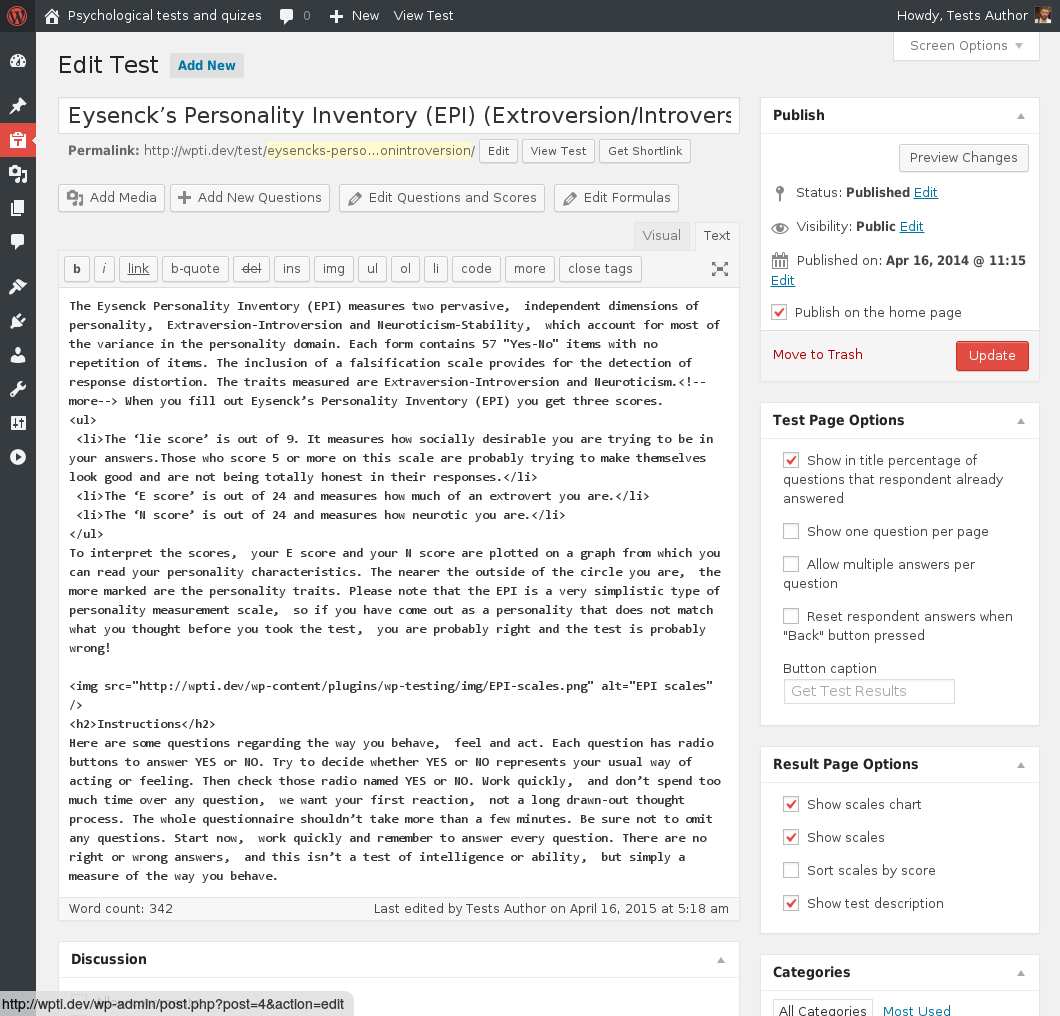
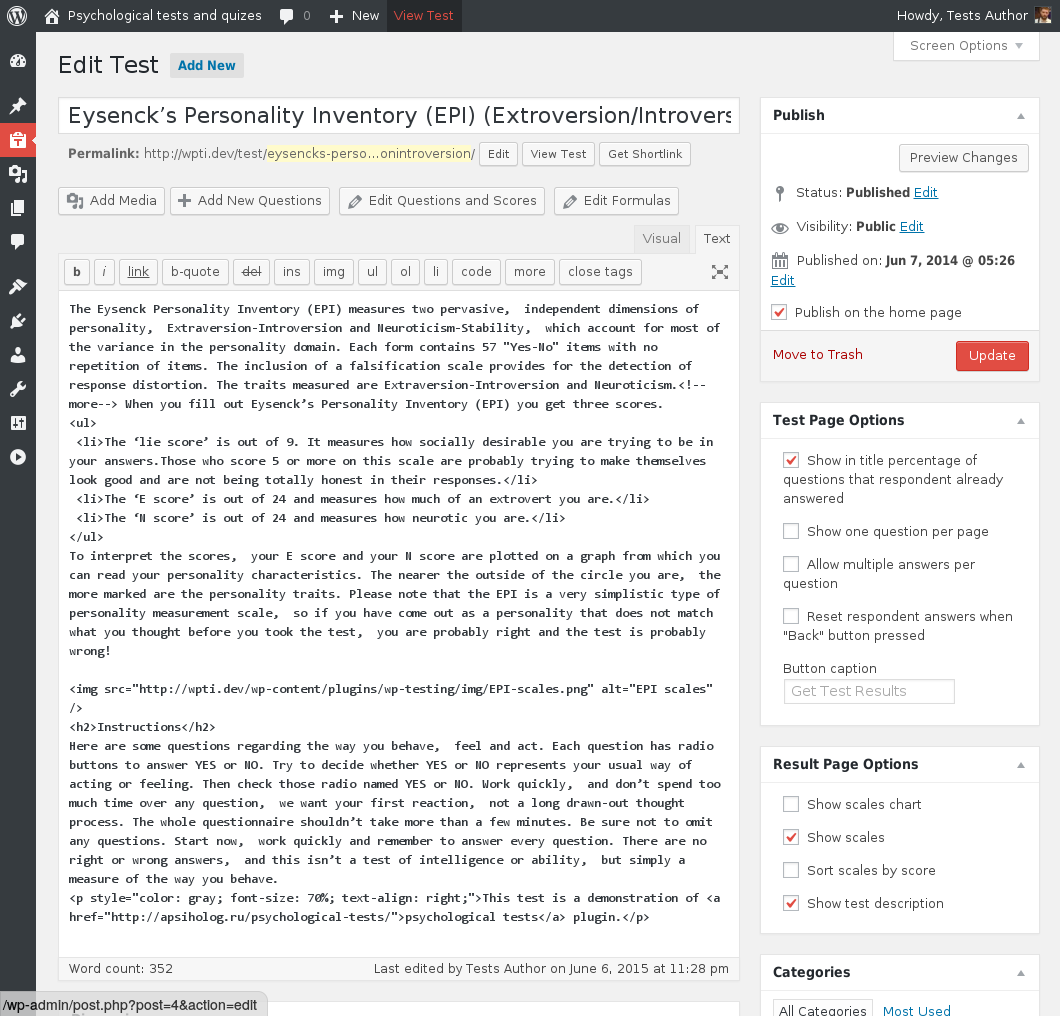
Update screenshots
* Update respondents' results screen
* Add user's tests results screen
* Improve bottom URL status element style

diff --git a/tools/screenshots/create-screenshots.js b/tools/screenshots/create-screenshots.js
@@ -1,13 +1,19 @@
 var casper = require('casper').create()
 casper.options.viewportSize = {width: 1060, height: 1016}
 
-casper.start('http://wpti.dev/').thenOpen('http://wpti.dev/wp-login.php', {
-    method: 'post',
-    data  : {
-        log: 'wpti',
-        pwd: 'wpti'
-    }
-})
+casper.start('http://wpti.dev/')
+
+function loginAs(who) {
+    casper.thenOpen('http://wpti.dev/wp-login.php', {
+        method: 'post',
+        data  : {
+            log: who,
+            pwd: who
+        }
+    })
+};
+
+loginAs('wpti')
 
 var screenshots = [
    {
@@ -62,6 +68,7 @@ var screenshots = [
                this.evaluate(function() {
                    switchEditors.switchto(jQuery('#content-html')[0])
                })
+               this.mouse.move('#wp-admin-bar-view')
                this.wait(400)
            })
        }
@@ -118,7 +125,7 @@ var screenshots = [
             })
         }
     }, {
-        title   : 'The example of the test without  scores. Some answers are individual and some are individualized',
+        title   : 'The example of the test without scores. Some answers are individual and some are individualized',
         offset  : 600,
         actions : function () {
             casper.thenOpen('http://wpti.dev/wp-admin/edit.php?post_type=wpt_test', function() {
@@ -132,11 +139,48 @@ var screenshots = [
             })
         }
     }, {
-        title   : 'Respondents’ test results in admin area. Test link will open test in edit more and view link allow to see test result',
+        title   : 'Respondents’ test results in admin area. Test link will open test in edit mode and view link allow to see test result',
         actions : function () {
-            casper.thenOpen('http://wpti.dev/wp-admin/edit.php?post_type=wpt_test&page=wpt_test_respondents_results&paged=2')
+            casper.thenOpen('http://wpti.dev/wp-admin/edit.php?post_type=wpt_test&page=wpt_test_respondents_results&filter_condition[passing_created]=201506&orderby=test_id&order=asc', function() {
+                this.click('#show-settings-link')
+                this.evaluate(function() {
+                    jQuery('#passing_device_uuid-hide').attr('checked', true).click()
+                    jQuery('#passing_ip-hide').attr('checked', true).click()
+                    jQuery('#passing_user_agent-hide').attr('checked', true).click()
+                })
+                this.wait(400)
+                this.mouse.move('label[for=cb-select-1]')
+                this.evaluate(function() {
+                    jQuery('#cb-select-1').click()
+                })
+            })
+
         }
     }, {
+        title   : 'User see own tests results in admin area',
+        actions : function () {
+            loginAs('user')
+
+            casper.thenOpen('http://wpti.dev/wp-admin/profile.php', function() {
+               this.clickLabel('Light', 'label')
+               this.fill('form#your-profile', {
+                   nickname     : 'Tests Respondent',
+                   display_name : 'Tests Respondent',
+                   email        : 'alla@angloved.ru'
+               }, true)
+            }).waitForUrl(/updated/)
+
+            casper.thenOpen('http://wpti.dev/wp-admin/admin.php?page=wpt_test_user_results', function() {
+                this.evaluate(function() {
+                    jQuery('.widefat td').css('max-width', '230px')
+                    return jQuery('body.folded').length > 0
+                }) || this.clickLabel('Collapse menu') && this.wait(400)
+
+                this.mouse.move('#wp-admin-bar-my-account')
+                this.wait(100)
+            })
+        }
+    },{
         title   : 'Ready test on the home page',
         actions : function () {
             casper.thenOpen('http://wpti.dev/wp-login.php?action=logout', function() {
@@ -288,18 +332,28 @@ casper.each(screenshots, function(self, screenshot, index) {
             if (urlDiv.length == 0) {
                 urlDiv = jQuery('<div/>').attr('id', 'url-element').css({
                     position    : 'absolute',
+                    zIndex      : 10,
                     height      : divHeight,
                     left        : 0,
                     background  : 'gainsboro',
                     color       : 'black',
                     padding     : '2px 10px 0px 2px',
+                    border      : '1px solid #c6c6c6',
                     borderTopRightRadius: '10px',
                     fontFamily  : 'sans-serif',
                     fontSize    : '14px',
                     opacity     : 0.8
                 }).appendTo('body')
             }
-            urlDiv.text(document.location).css({top: offsetTop - divHeight})
+
+            var url      = document.location.pathname + decodeURI(document.location.search),
+                urlWidth = 145;
+
+            if (url.length > urlWidth) {
+                url = url.substring(0, urlWidth) + ' ...'
+            }
+
+            urlDiv.text(url).css({top: offsetTop - divHeight})
         }, options.height + options.top)
 
         this.capture('screenshot-' + screenIndex + '.png', options)

diff --git a/README.md b/README.md
@@ -83,19 +83,20 @@ PS: **If something broken or doesn't work**, pls create new topic in ["Support" 
 04. The "Quick Fill Scores" box is opened that allows us quickly enter scores from the questions separated by commas. "Add Individual Answers" box also opened but it tells us to use "Test Answers" in case when answers are same
 05. Fast adding questions from text
 06. Editing formulas
-07. The example of the test without  scores. Some answers are individual and some are individualized
-08. Respondents’ test results in admin area. Test link will open test in edit more and view link allow to see test result
-09. Ready test on the home page
-10. The page with the description of the test, questions and answers
-11. Unanswered questions are highlighted to respondent
-12. Get test results after all questions are answered
-13. The result page on it`s own URL contains both the result of the test and the scales that create a result
-14. Scale description with "more..." text closed
-15. Scale description with "more..." text opened (after clicking on "more" link)
-16. A test without scores is shown like a "Test is under construction". Answers titles are those that was entered
-17. Test results with scales chart. Hovered scale shows it`s value and title in dynamic tag
-18. In case when scales has different length (possible max total) they are shown as percents
-19. Multiple answers per question are also possible
-20. One question per page also allowed. On first page we see test description, "Next" button and pages counter
-21. On second page description not shown
-22. On last page counter not shown and button changes back to "Get Test Results"
+07. The example of the test without scores. Some answers are individual and some are individualized
+08. Respondents’ test results in admin area. Test link will open test in edit mode and view link allow to see test result
+09. User see own tests results in admin area
+10. Ready test on the home page
+11. The page with the description of the test, questions and answers
+12. Unanswered questions are highlighted to respondent
+13. Get test results after all questions are answered
+14. The result page on it`s own URL contains both the result of the test and the scales that create a result
+15. Scale description with "more..." text closed
+16. Scale description with "more..." text opened (after clicking on "more" link)
+17. A test without scores is shown like a "Test is under construction". Answers titles are those that was entered
+18. Test results with scales chart. Hovered scale shows it`s value and title in dynamic tag
+19. In case when scales has different length (possible max total) they are shown as percents
+20. Multiple answers per question are also possible
+21. One question per page also allowed. On first page we see test description, "Next" button and pages counter
+22. On second page description not shown
+23. On last page counter not shown and button changes back to "Get Test Results"
